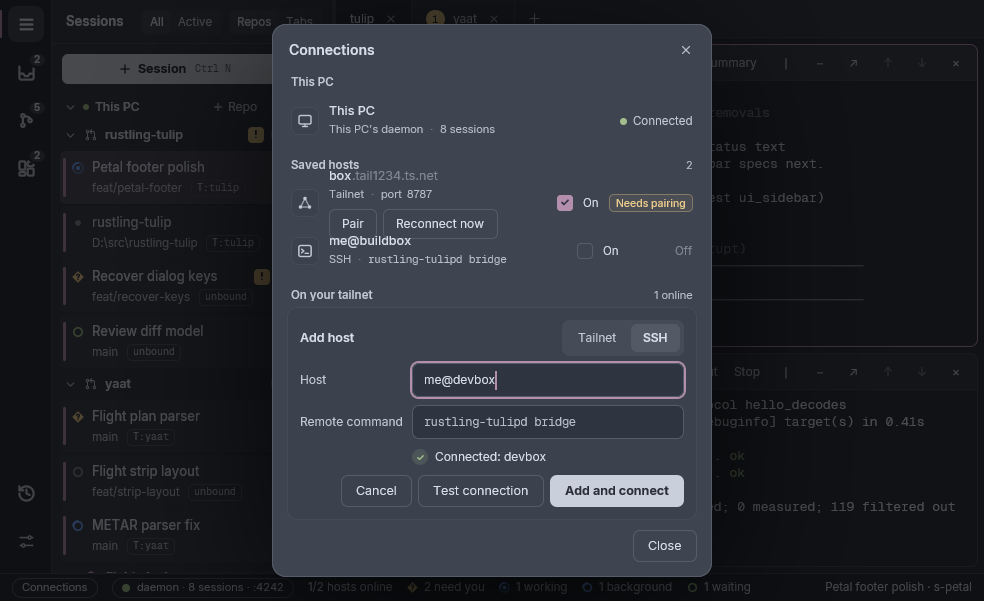
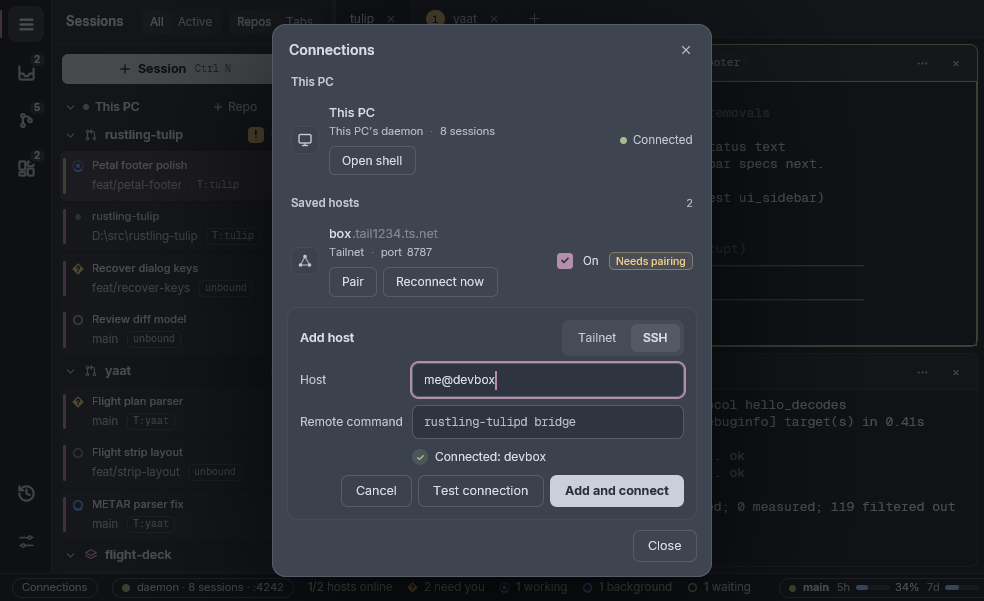
fix: keep the Connections dialog's rows apart when it is squeezed
gpui lets every flex child shrink, so with the tall Add host form open the
headings collapsed and rows ran into each other. Headings and rows now keep
their height, and the list scrolls.

Refs: RT-1285

diff --git a/apps/native/tests/ui/ui_connections.rs b/apps/native/tests/ui/ui_connections.rs
@@ -1723,6 +1723,97 @@ fn with_fifteen_hosts_and_the_form_open_the_panel_stays_inside_the_window(cx: &m
     );
 }
 
+/// The `connections-ssh` shot's own tree in a 984x601 window, with its SSH
+/// form at its tallest after a passed Test connection: every heading and
+/// row the list draws keeps the height it has with the form closed, and no
+/// two consecutive ones overlap.
+#[gpui::test]
+fn the_tallest_ssh_form_keeps_rows_and_headings_apart(cx: &mut TestAppContext) {
+    let dir = TestDir::new();
+    seed_ui(
+        &dir,
+        &json!({
+            "saved_hosts": [
+                { "name": "box.tail1234.ts.net", "port": 8787 },
+                { "kind": "ssh", "name": "me@buildbox", "enabled": false },
+            ],
+            "host_session_counts": { "box.tail1234.ts.net": 4 },
+        }),
+    );
+    let mut h = Harness::with(cx, &dir, &Fixture::default());
+    h.cx.simulate_resize(gpui::size(px(984.0), px(601.0)));
+    h.root_update(move |root, _, _| root.set_ssh_tester(FakeSsh::answering(Ok(()))));
+    open_picker(&mut h, tailnet_with(&["laptop.tail1234.ts.net"]));
+    h.commands();
+
+    let headings: Vec<String> = ["this-pc", "saved", "tailnet"]
+        .iter()
+        .map(|slug| format!("connections-section-{slug}"))
+        .collect();
+    let ssh = h.root(|root, _| root.connection_picker_ssh_rows());
+    let rows: Vec<String> = h
+        .root(|root, _| root.connection_picker_rows())
+        .into_iter()
+        .map(|(label, _)| {
+            let key = if ssh.contains(&label) {
+                format!("ssh:{label}")
+            } else {
+                label
+            };
+            row(&key)
+        })
+        .collect();
+    let mut selectors = headings.clone();
+    selectors.extend(rows.iter().cloned());
+    let height = |h: &mut Harness<'_>, selector: &str| h.bounds(selector).size.height / px(1.0);
+    let closed: Vec<f32> = selectors.iter().map(|s| height(&mut h, s)).collect();
+
+    h.click_on("connections-add-host");
+    h.click_on("connections-add-mode-ssh");
+    assert!(h.root(|root, _| root.connection_picker_adding_ssh()));
+    assert_eq!(focus(&mut h).as_deref(), Some("connections-ssh-form-host"));
+    type_text(&mut h, "me@devbox");
+    h.keys("enter");
+    assert_eq!(ssh_result(&mut h).as_deref(), Some("Connected: devbox"));
+
+    for (selector, closed_height) in selectors.iter().zip(&closed) {
+        let open = height(&mut h, selector);
+        assert!(
+            (open - closed_height).abs() <= 0.5,
+            "{selector} keeps the {closed_height} px height it has with the form closed, not {open} px"
+        );
+    }
+    for selector in &rows {
+        let open = height(&mut h, selector);
+        assert!(
+            open >= 46.0,
+            "the row at {selector} keeps its 46 px floor, not {open} px"
+        );
+    }
+    let mut drawn: Vec<(String, f32, f32)> = selectors
+        .iter()
+        .map(|selector| {
+            let bounds = h.bounds(selector);
+            (
+                selector.clone(),
+                bounds.top() / px(1.0),
+                bounds.bottom() / px(1.0),
+            )
+        })
+        .collect();
+    drawn.sort_by(|a, b| a.1.total_cmp(&b.1));
+    for pair in drawn.windows(2) {
+        assert!(
+            pair[0].2 <= pair[1].1,
+            "{} ends at {} px, above where {} starts at {} px",
+            pair[0].0,
+            pair[0].2,
+            pair[1].0,
+            pair[1].1
+        );
+    }
+}
+
 #[gpui::test]
 fn tab_ring_order_with_the_form_closed(cx: &mut TestAppContext) {
     let dir = TestDir::new();

diff --git a/apps/native/src/connection_picker_view.rs b/apps/native/src/connection_picker_view.rs
@@ -1272,6 +1272,7 @@ fn section_header(
             .child(note)
     });
     div()
+        .flex_none()
         .driver_id(move || selector)
         .flex()
         .when(failed, |header| header.flex_col().gap(px(4.0)))
@@ -1364,6 +1365,7 @@ fn host_row(
         ))
         .children(row_actions(index, controls, draw, cx));
     div()
+        .flex_none()
         .id(ElementId::Name(SharedString::from(selector.clone())))
         .driver_id(move || selector)
         .group(group.clone())

diff --git a/CHANGELOG.md b/CHANGELOG.md
@@ -11,6 +11,7 @@ What changed in each release of rustling-tulip, newest first. Installers are on 
 - After opening with your tabs closed, a reconnect no longer brings them back, and quitting before that happens no longer skips it next time.
 - A settings file that isn't valid text keeps a copy instead of being overwritten, and a failed reset of your settings is tried again.
 - A tap in the phone's terminal no longer drops a session out of Needs you while its question is still up.
+- The Connections dialog's rows and headings no longer run together when the Add host form leaves them little room; the list scrolls instead.
 
 ## v0.11.1-alpha
 
